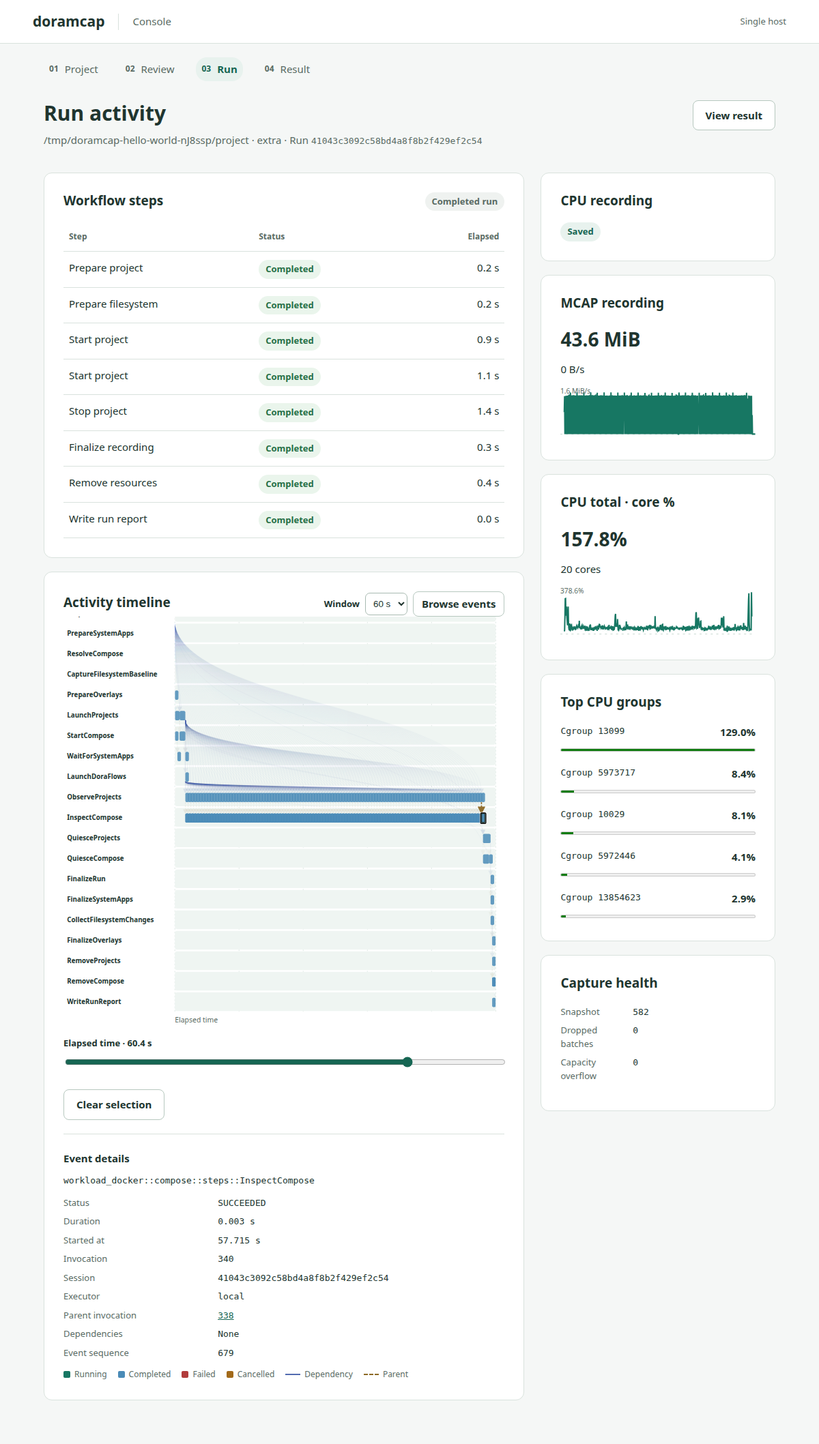
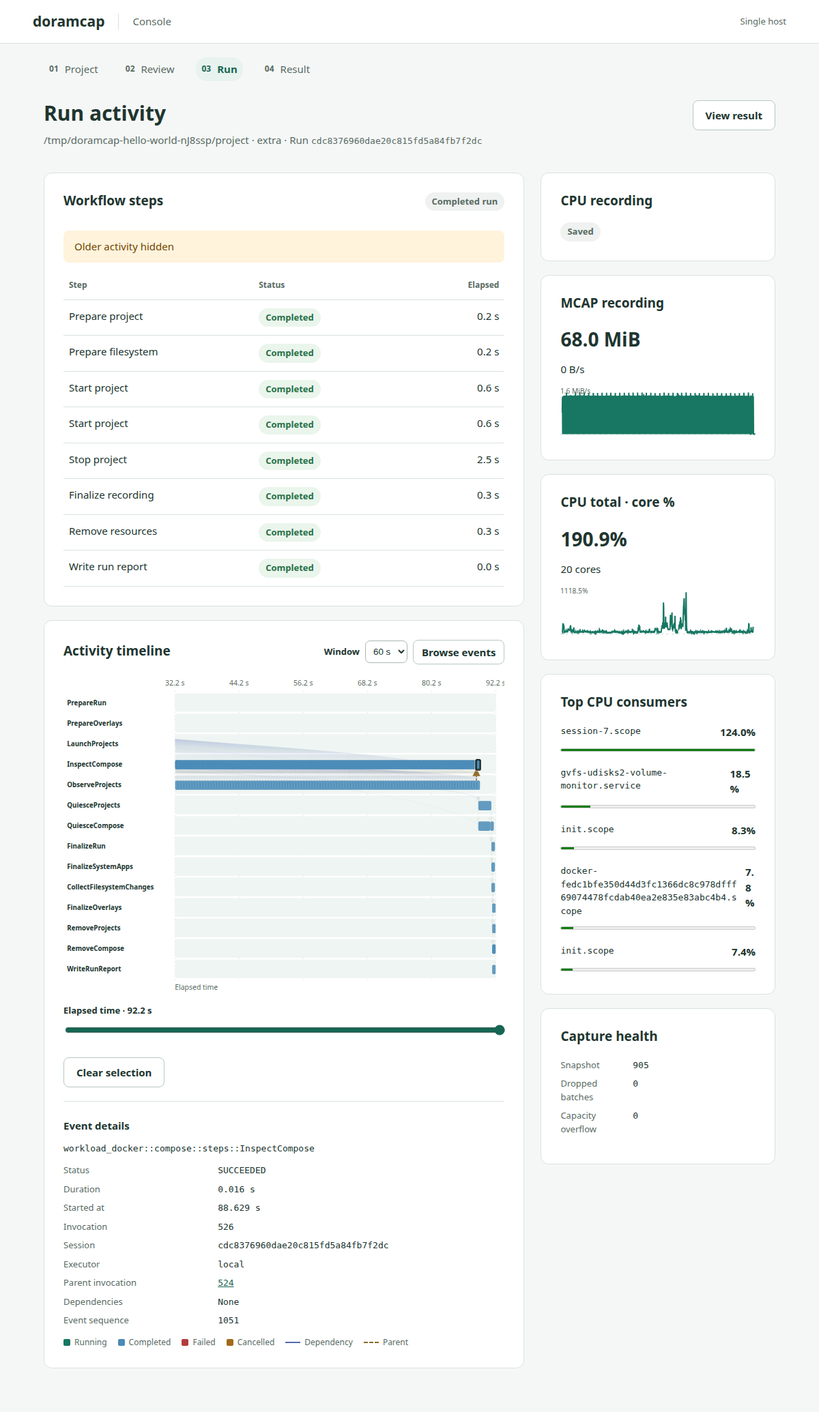
Display reported cgroup names in CPU consumer rankings

diff --git a/console/frontend/src/App.tsx b/console/frontend/src/App.tsx
@@ -103,7 +103,7 @@ export function App() {
     <div className="sr-only" aria-live="polite">{phase} {state === 'STOPPING' ? 'Stopping run' : ''}</div>
     {phase === 'Project' && <><div className="heading"><div><h1>Choose a project</h1></div></div><div className="columns"><section className="panel"><h2>Project directory</h2><p className="muted">Enter a directory beneath the approved project root.</p><label htmlFor="directory">Directory on this host</label><input id="directory" value={directory} onChange={event => changeDirectory(event.target.value)} placeholder="/projects/my-project" autoComplete="off"/>{available.length > 0 && <fieldset><legend>Optional profiles</legend>{available.map(profile => <label className="checkbox" key={profile}><input type="checkbox" checked={profiles.includes(profile)} onChange={() => toggleProfile(profile)}/>{profile}</label>)}</fieldset>}<div className="actions"><ActionButton disabled={!directory.trim() || busy} onClick={() => void prepare()}>{busy ? 'Checking…' : available.length ? 'Review project' : 'Continue'}</ActionButton></div></section><aside><section className="panel"><h2>Before you start</h2><p>Default Compose files and prebuilt local images required.</p></section></aside></div></>}
     {phase === 'Review' && review && <><div className="heading"><div><h1>Review project</h1></div><ActionButton onClick={() => void start()} disabled={busy || !review.preparedId}>Start run</ActionButton></div><div className="columns"><section className="panel"><div className="panel-heading"><h2>Application</h2><StatusLabel label={busy ? 'Checking…' : review.preparedId ? 'Ready to start' : 'Review required'} tone={review.preparedId && !busy ? 'success' : 'neutral'}/></div><p className="mono break">{directory}</p><h3>Enabled services</h3><table><thead><tr><th>Service</th><th>Local image</th></tr></thead><tbody>{review.services.map(service => <tr key={service.name}><td>{service.name}</td><td className="mono break">{service.imageId}</td></tr>)}</tbody></table>{review.warnings.map(warning => <p className="notice" key={warning}>{warning}</p>)}<div className="actions"><ActionButton variant="secondary" disabled={busy} onClick={() => { selecting.current = true; setPhase('Project'); }}>Change project</ActionButton>{!busy && !review.preparedId && <ActionButton variant="secondary" onClick={() => void prepare()}>Retry review</ActionButton>}</div></section><aside><SystemApps apps={review.systemApps} busy={busy} toggle={toggleSystemApp}/><section className="panel"><h2>Run settings</h2><p>Profiles</p><p>{profiles.length ? profiles.join(', ') : 'Default'}</p></section></aside></div></>}
-    {phase === 'Run' && <><div className="heading"><div><h1>{historical ? 'Run activity' : state === 'STOPPING' || stopPending ? 'Stopping run' : 'Run in progress'}</h1><p>{(snapshot?.projectDirectory || directory) && <>{snapshot?.projectDirectory || directory} · </>}{(snapshot?.profiles?.length ?? 0) > 0 && <>{snapshot?.profiles?.join(', ')} · </>}Run <span className="mono">{snapshot?.runId || expected.current}</span></p></div>{historical ? <ActionButton variant="secondary" onClick={() => navigateRun('Result')}>View result</ActionButton> : <ActionButton variant="stop" disabled={state === 'STOPPING' || stopPending} onClick={() => void stop()}>{state === 'STOPPING' || stopPending ? 'Stopping…' : 'Stop run'}</ActionButton>}</div><div className="columns"><div><RunActivity snapshot={snapshot} stopping={state === 'STOPPING' || stopPending} disconnected={disconnected} historical={historical}/></div><aside><section className="panel"><h2>CPU recording</h2><StatusLabel label={!recordingEnabled ? 'Disabled' : historical ? (snapshot?.cpuAvailable ? 'Saved' : 'Unavailable') : snapshot?.monitorReady ? 'In progress' : 'Waiting for readiness'} tone={recordingEnabled && snapshot?.monitorReady ? 'active' : 'neutral'}/></section>{recordingEnabled && <RunMetrics samples={snapshot?.metrics} cpuSnapshots={snapshot?.cpuSnapshots} historical={historical} disconnected={disconnected} incomplete={snapshot?.metricsIncomplete}/>}</aside></div></>}
+    {phase === 'Run' && <><div className="heading"><div><h1>{historical ? 'Run activity' : state === 'STOPPING' || stopPending ? 'Stopping run' : 'Run in progress'}</h1><p>{(snapshot?.projectDirectory || directory) && <>{snapshot?.projectDirectory || directory} · </>}{(snapshot?.profiles?.length ?? 0) > 0 && <>{snapshot?.profiles?.join(', ')} · </>}Run <span className="mono">{snapshot?.runId || expected.current}</span></p></div>{historical ? <ActionButton variant="secondary" onClick={() => navigateRun('Result')}>View result</ActionButton> : <ActionButton variant="stop" disabled={state === 'STOPPING' || stopPending} onClick={() => void stop()}>{state === 'STOPPING' || stopPending ? 'Stopping…' : 'Stop run'}</ActionButton>}</div><div className="columns"><div><RunActivity snapshot={snapshot} stopping={state === 'STOPPING' || stopPending} disconnected={disconnected} historical={historical}/></div><aside><section className="panel"><h2>CPU recording</h2><StatusLabel label={!recordingEnabled ? 'Disabled' : historical ? (snapshot?.cpuAvailable ? 'Saved' : 'Unavailable') : snapshot?.monitorReady ? 'In progress' : 'Waiting for readiness'} tone={recordingEnabled && snapshot?.monitorReady ? 'active' : 'neutral'}/></section>{recordingEnabled && <RunMetrics samples={snapshot?.metrics} cpuSnapshots={snapshot?.cpuSnapshots} cpuGroupNames={snapshot?.cpuGroupNames} historical={historical} disconnected={disconnected} incomplete={snapshot?.metricsIncomplete}/>}</aside></div></>}
     {phase === 'Result' && snapshot && <Result snapshot={snapshot} newRun={newRun} viewRun={() => navigateRun('Run')}/>}
   </PageFrame>;
 }

diff --git a/console/frontend/src/RunMetrics.tsx b/console/frontend/src/RunMetrics.tsx
@@ -23,11 +23,12 @@ function Sparkline({ samples, field, label }: { samples: RunMetric[]; field: 'cp
   }).join(' ');
   return <svg className="metric-chart" viewBox="0 0 280 80" role="img" aria-label={label}><line x1="0" x2="280" y1="70" y2="70" className="timeline-grid"/><path d={path} fill="none" stroke="#177763" strokeWidth="2"/><text x="0" y="12" className="metric-scale">{field === 'cpuPercent' ? `${max.toFixed(1)}%` : `${bytesLabel(max)}/s`}</text></svg>;
 }
-export function RunMetrics({ samples = [], cpuSnapshots = [], historical = false, disconnected = false, incomplete = false }: { samples?: RunMetric[]; cpuSnapshots?: Snapshot['cpuSnapshots']; historical?: boolean; disconnected?: boolean; incomplete?: boolean }) {
+export function RunMetrics({ samples = [], cpuSnapshots = [], cpuGroupNames = [], historical = false, disconnected = false, incomplete = false }: { samples?: RunMetric[]; cpuSnapshots?: Snapshot['cpuSnapshots']; cpuGroupNames?: Snapshot['cpuGroupNames']; historical?: boolean; disconnected?: boolean; incomplete?: boolean }) {
   const last = samples.at(-1);
   const cpu = [...samples].reverse().find(sample => sample.cpuPercent != null && (historical || BigInt(last?.elapsedNs ?? '0') - BigInt(sample.elapsedNs) <= 500000000n));
   const source = cpuSnapshots.at(-1);
   const groups = useMemo(() => topCpuGroups(cpuSnapshots), [cpuSnapshots]);
+  const names = useMemo(() => new Map(cpuGroupNames.map(group => [group.id, group.name])), [cpuGroupNames]);
   const peak = Math.max(100, ...groups.map(group => group.percent));
-  return <><section className="panel"><h2>MCAP recording</h2><p className="metric-value">{bytesLabel(last?.recordingBytes)}</p><p>{last?.writeBytesPerSecond != null ? `${bytesLabel(last.writeBytesPerSecond)}/s` : 'Unavailable'}</p><Sparkline samples={samples} field="writeBytesPerSecond" label="MCAP write rate"/></section><section className="panel"><h2>CPU total · core %</h2><p className="metric-value">{cpu?.cpuPercent != null ? `${cpu.cpuPercent.toFixed(1)}%` : 'Unavailable'}</p>{!!cpu?.cpuCores && <p>{cpu.cpuCores} cores</p>}{disconnected && !historical && <p className="notice">Connection lost</p>}<Sparkline samples={samples} field="cpuPercent" label="Total CPU utilization across cores"/></section><section className="panel"><h2>Top CPU groups</h2>{groups.length ? <ol className="cpu-ranking">{groups.map(group => <li key={group.id}><div><span className="mono">Cgroup {group.id}</span><strong>{group.percent.toFixed(1)}%</strong></div><meter min={0} max={peak} value={group.percent} aria-label={`Cgroup ${group.id} core utilization`}/></li>)}</ol> : <p className="muted">Unavailable</p>}</section><section className="panel"><h2>Capture health</h2><dl className="detail-grid"><dt>Snapshot</dt><dd>{source?.sequence?.toString() ?? 'Unavailable'}</dd><dt>Dropped batches</dt><dd>{source?.droppedBatches?.toString() ?? 'Unavailable'}</dd><dt>Capacity overflow</dt><dd>{source?.capacityOverflow?.toString() ?? 'Unavailable'}</dd></dl></section>{incomplete && <p className="notice">Metrics incomplete</p>}</>;
+  return <><section className="panel"><h2>MCAP recording</h2><p className="metric-value">{bytesLabel(last?.recordingBytes)}</p><p>{last?.writeBytesPerSecond != null ? `${bytesLabel(last.writeBytesPerSecond)}/s` : 'Unavailable'}</p><Sparkline samples={samples} field="writeBytesPerSecond" label="MCAP write rate"/></section><section className="panel"><h2>CPU total · core %</h2><p className="metric-value">{cpu?.cpuPercent != null ? `${cpu.cpuPercent.toFixed(1)}%` : 'Unavailable'}</p>{!!cpu?.cpuCores && <p>{cpu.cpuCores} cores</p>}{disconnected && !historical && <p className="notice">Connection lost</p>}<Sparkline samples={samples} field="cpuPercent" label="Total CPU utilization across cores"/></section><section className="panel"><h2>Top CPU consumers</h2>{groups.length ? <ol className="cpu-ranking">{groups.map(group => <li key={group.id}><div><span className="mono" title={`Cgroup ${group.id}`}>{names.get(group.id) || `Cgroup ${group.id}`}</span><strong>{group.percent.toFixed(1)}%</strong></div><meter min={0} max={peak} value={group.percent} aria-label={`${names.get(group.id) || `Cgroup ${group.id}`} core utilization`}/></li>)}</ol> : <p className="muted">Unavailable</p>}</section><section className="panel"><h2>Capture health</h2><dl className="detail-grid"><dt>Snapshot</dt><dd>{source?.sequence?.toString() ?? 'Unavailable'}</dd><dt>Dropped batches</dt><dd>{source?.droppedBatches?.toString() ?? 'Unavailable'}</dd><dt>Capacity overflow</dt><dd>{source?.capacityOverflow?.toString() ?? 'Unavailable'}</dd></dl></section>{incomplete && <p className="notice">Metrics incomplete</p>}</>;
 }

diff --git a/console/frontend/src/api.ts b/console/frontend/src/api.ts
@@ -6,7 +6,7 @@ export interface Review { preparedId: string; runId: string; availableProfiles: 
 export interface Step { session: string; executor: string; invocation: string; step: string; state: string; durationNs: string; elapsedNs?: string; parent?: string | null; dependencies?: string[]; sequence?: string; stepVersion?: number; error?: string | null }
 export interface Outcome { execution: string; writersStopped?: boolean | null; recordingFinalized?: boolean | null; boundaryClean?: boolean | null; eventStreamHealthy?: boolean | null }
 export interface RunMetric { elapsedNs: string; recordingBytes?: string | null; writeBytesPerSecond?: number | null; cpuPercent?: number | null; cpuCores: number }
-export interface Snapshot { phase: string; runId: string; steps: Step[]; sequence: string; lostEvents: string; truncatedSteps: string; overflowSteps: string; progressIncomplete: boolean; outcome: Outcome | null; cpuAvailable: boolean; reportAvailable: boolean; monitorReady: boolean; projectDirectory?: string; profiles?: string[]; metrics?: RunMetric[]; activityAvailable?: boolean; metricsIncomplete?: boolean; cpuSnapshots?: doramcap.telemetry.v1.ISnapshot[]; systemApps?: { ids: string[] } | null }
+export interface Snapshot { phase: string; runId: string; steps: Step[]; sequence: string; lostEvents: string; truncatedSteps: string; overflowSteps: string; progressIncomplete: boolean; outcome: Outcome | null; cpuAvailable: boolean; reportAvailable: boolean; monitorReady: boolean; projectDirectory?: string; profiles?: string[]; metrics?: RunMetric[]; activityAvailable?: boolean; metricsIncomplete?: boolean; cpuSnapshots?: doramcap.telemetry.v1.ISnapshot[]; cpuGroupNames?: { id: string; name: string }[]; systemApps?: { ids: string[] } | null }
 export class ApiError extends Error { constructor(public code: string) { super(code); } }
 async function request<T>(path: string, init?: RequestInit): Promise<T> {
   const response = await fetch(path, { ...init, headers: { ...(init?.body ? { 'content-type': 'application/json' } : {}), ...init?.headers }, credentials: 'same-origin' });

diff --git a/console/frontend/src/panels.test.tsx b/console/frontend/src/panels.test.tsx
@@ -8,6 +8,7 @@ import { RunMetrics } from './RunMetrics';
 import { Result } from './Result';
 import { SystemApps } from './SystemApps';
 import { cpuRecordingEnabled } from './api';
+import { doramcap } from './generated/console';
 import { PageFrame } from './ui/PageFrame';
 import type { Snapshot, Step } from './api';
 
@@ -59,7 +60,7 @@ test('historical run freezes elapsed time and unavailable metrics remain distinc
   assert.match(zero, /0 B/);
   assert.match(zero, /0.0%/);
   assert.match(zero, /8 cores/);
-  assert.match(zero, /Top CPU groups/);
+  assert.match(zero, /Top CPU consumers/);
   assert.match(zero, /Capture health/);
   assert.doesNotMatch(zero, /Inclusive ancestors|recorder boundary/);
 });
@@ -95,4 +96,16 @@ test('system app choices reflect selection and disabled recording stays distinct
   assert.equal(cpuRecordingEnabled(snapshot), false);
   assert.equal(cpuRecordingEnabled({ systemApps: { ids: ['cpu-monitor'] } }), true);
   assert.equal(cpuRecordingEnabled({}), true);
+});
+
+test('CPU consumers show reported cgroup names with an ID tooltip and numeric fallback', () => {
+  // Arrange
+  const cpuSnapshots = [1,2].map(sequence=>doramcap.telemetry.v1.Snapshot.fromObject({sequence,monotonicEndNs:sequence*100000000,records:[{cgroupId:'9007199254740993',parentId:0,cpu:0,flags:1,runtimeNs:sequence*10000000}]}));
+  // Act
+  const named = renderToStaticMarkup(<RunMetrics cpuSnapshots={cpuSnapshots} cpuGroupNames={[{id:'9007199254740993',name:'worker.service'}]}/>);
+  const missing = renderToStaticMarkup(<RunMetrics cpuSnapshots={cpuSnapshots}/>);
+  // Assert
+  assert.match(named, /title="Cgroup 9007199254740993">worker.service/);
+  assert.match(named, /worker.service core utilization/);
+  assert.match(missing, />Cgroup 9007199254740993<\/span>/);
 });

diff --git a/console/frontend/src/live.test.ts b/console/frontend/src/live.test.ts
@@ -46,3 +46,15 @@ test('CPU rankings use existing counters with exact deltas, and suppress reset o
   assert.deepEqual(topCpuGroups([source(1,5n),source(2,0n)]),[]);
   assert.deepEqual(topCpuGroups([]),[]);
 });
+
+test('cgroup names keep exact IDs across heartbeats and reset with a fresh CPU frame', () => {
+  // Arrange
+  const id = '9007199254740993';
+  const first = snapshot({cpuSnapshots:[{sequence:'1'}],cpuGroupNames:[{id,name:'worker.service'}]});
+  // Act
+  const heartbeat = mergeLive(first,snapshot({}));
+  const changed = mergeLive(heartbeat,snapshot({cpuSnapshots:[{sequence:'2'}],cpuGroupNames:[]}));
+  // Assert
+  assert.deepEqual(heartbeat.cpuGroupNames,[{id,name:'worker.service'}]);
+  assert.deepEqual(changed.cpuGroupNames,[]);
+});

diff --git a/console/frontend/src/live.ts b/console/frontend/src/live.ts
@@ -46,7 +46,7 @@ export function mergeLive(previous: Snapshot | null, next: Snapshot): Snapshot {
     for (const metric of next.metrics) metrics.set(metric.elapsedNs, metric);
     history = [...metrics.values()].slice(-1200);
   }
-  return { ...next, steps, metrics: history, cpuSnapshots: next.cpuSnapshots?.length ? next.cpuSnapshots : previous.cpuSnapshots };
+  return { ...next, steps, metrics: history, cpuSnapshots: next.cpuSnapshots?.length ? next.cpuSnapshots : previous.cpuSnapshots, cpuGroupNames: next.cpuSnapshots?.length ? next.cpuGroupNames : previous.cpuGroupNames };
 }
 
 export async function readLive(consume: (status: Snapshot) => void, signal: AbortSignal) {

diff --git a/console/server/native/src/metrics.rs b/console/server/native/src/metrics.rs
@@ -29,6 +29,7 @@ struct Reader {
     size: Option<(u64, Instant)>,
     incomplete: bool,
     latest: Vec<telemetry_protocol::pb::Snapshot>,
+    names: Vec<crate::protocol::CpuGroupName>,
 }
 impl Reader {
     fn sample(&mut self, directory: &Path, elapsed: Duration) -> RunMetric {
@@ -73,6 +74,7 @@ impl Reader {
             self.offset = 0;
             self.previous = None;
             self.latest.clear();
+            self.names.clear();
             self.incomplete = true;
         }
         self.identity = Some(identity);
@@ -121,6 +123,31 @@ impl Reader {
                 }
                 self.latest.push(snapshot);
             }
+            let parents: BTreeSet<_> = frame
+                .snapshot
+                .records
+                .iter()
+                .map(|row| row.parent_id)
+                .collect();
+            let leaves: BTreeSet<_> = frame
+                .snapshot
+                .records
+                .iter()
+                .map(|row| row.cgroup_id)
+                .filter(|id| !parents.contains(id))
+                .collect();
+            self.names = frame
+                .dictionary
+                .iter()
+                .filter(|entry| leaves.contains(&entry.id))
+                .filter_map(|entry| {
+                    Some(crate::protocol::CpuGroupName {
+                        id: entry.id,
+                        name: public_cgroup_name(entry.path.as_deref()?)?,
+                    })
+                })
+                .take(512)
+                .collect();
             let snapshot = &frame.snapshot;
             sample.cpu_cores = snapshot
                 .records
@@ -200,6 +227,18 @@ impl Reader {
     }
 }
 
+fn public_cgroup_name(path: &str) -> Option<String> {
+    if path.is_empty() {
+        return None;
+    }
+    let leaf = path
+        .rsplit('/')
+        .find(|part| !part.is_empty())
+        .unwrap_or("/");
+    let name: String = leaf.chars().filter(|c| !c.is_control()).take(128).collect();
+    (!name.is_empty() && name != "." && name != "..").then_some(name)
+}
+
 fn terminal(phase: Phase) -> bool {
     matches!(phase, Phase::Finished | Phase::Blocked | Phase::Idle)
 }
@@ -246,6 +285,7 @@ pub(crate) fn watch(
                 }
                 current.metrics.push(sample);
                 current.cpu_snapshots = reader.latest.clone();
+                current.cpu_group_names = reader.names.clone();
                 if current
                     .cpu_snapshots
                     .iter()
@@ -331,10 +371,24 @@ pub(crate) fn restore(session: &mut Session, data_root: &Path) {
         && status.steps.len() <= 512
         && status.metrics.len() <= HISTORY
         && status.cpu_snapshots.len() <= 2
+        && status.cpu_group_names.len() <= 512
     {
         session.progress.restore(&status);
         session.metrics = status.metrics;
         session.cpu_snapshots = status.cpu_snapshots;
+        session.cpu_group_names = status.cpu_group_names;
+        // Older checkpoints omitted names; read the matching final producer dictionary.
+        if session.cpu_group_names.is_empty() && !session.cpu_snapshots.is_empty() {
+            let mut reader = Reader::default();
+            if let Ok(root) =
+                workload_docker::evidence::root(&data_root.join("runs").join(&marker.run_id))
+                && reader.cpu(&root, &mut RunMetric::default()).is_ok()
+                && reader.latest.last().map(|s| s.sequence)
+                    == session.cpu_snapshots.last().map(|s| s.sequence)
+            {
+                session.cpu_group_names = reader.names;
+            }
+        }
         session.metrics_incomplete = status.metrics_incomplete;
         session
             .loss
@@ -371,6 +425,12 @@ mod tests {
             body: Some(pb::packet::Body::Snapshot(pb::SnapshotFrame {
                 version: 2,
                 session_id: "capture".into(),
+                dictionary_full: true,
+                dictionary: vec![pb::DictionaryEntry {
+                    id: 11,
+                    parent_id: 10,
+                    path: Some("/private/ancestor/worker.service".into()),
+                }],
                 snapshot: Some(pb::Snapshot {
                     schema_version: 1,
                     sequence,
@@ -393,6 +453,61 @@ mod tests {
         file.write_all(bytes).unwrap();
     }
     #[test]
+    fn names_are_bounded_leaf_names_and_legacy_checkpoints_can_restore_them() {
+        // Arrange
+        let root = tempfile::tempdir().unwrap();
+        let id = "a".repeat(32);
+        let directory = root.path().join("runs").join(&id);
+        std::fs::create_dir_all(&directory).unwrap();
+        let stream = directory.join("cpu.pb");
+        append(&stream, &frame(0, 100));
+        append(&stream, &frame(1, 200));
+        let mut reader = Reader::default();
+        reader.sample(&directory, Duration::ZERO);
+        let status = Status {
+            phase: Phase::Finished as i32,
+            run_id: id.clone(),
+            cpu_snapshots: reader.latest,
+            ..Default::default()
+        };
+        save(&directory, &status).unwrap();
+        let mut session = Session::new(
+            Phase::Finished,
+            Some(Marker {
+                run_id: id,
+                ..Default::default()
+            }),
+        );
+        // Act
+        restore(&mut session, root.path());
+        // Assert
+        assert_eq!(session.cpu_group_names[0].name, "worker.service");
+        assert_eq!(
+            public_cgroup_name("/private/parent/worker.service\n").as_deref(),
+            Some("worker.service")
+        );
+        assert_eq!(public_cgroup_name("/").as_deref(), Some("/"));
+        assert!(public_cgroup_name("").is_none());
+        assert_eq!(
+            public_cgroup_name(&"é".repeat(200))
+                .unwrap()
+                .chars()
+                .count(),
+            128
+        );
+        let encoded = Status {
+            cpu_group_names: session.cpu_group_names,
+            ..Default::default()
+        }
+        .encode_to_vec();
+        assert!(
+            !encoded
+                .windows(b"private".len())
+                .any(|bytes| bytes == b"private")
+        );
+    }
+
+    #[test]
     fn totals_exclude_inclusive_descendants_and_virtual_kernel_preserving_u64_deltas() {
         // Arrange
         let root = tempfile::tempdir().unwrap();
@@ -407,6 +522,8 @@ mod tests {
         // Assert
         assert_eq!(first.cpu_percent, Some(20.0));
         assert_eq!(first.cpu_cores, 2);
+        assert_eq!(reader.names[0].id, 11);
+        assert_eq!(reader.names[0].name, "worker.service");
         assert_eq!(first.recording_bytes, Some(100));
         assert!(first.write_bytes_per_second.is_none());
         // Act: a partial writer frame must wait without corrupting the cursor.

diff --git a/console/server/native/src/session.rs b/console/server/native/src/session.rs
@@ -31,6 +31,7 @@ pub(crate) struct Session {
     pub metrics: Vec<crate::protocol::RunMetric>,
     pub metrics_incomplete: bool,
     pub cpu_snapshots: Vec<telemetry_protocol::pb::Snapshot>,
+    pub cpu_group_names: Vec<crate::protocol::CpuGroupName>,
     pub observer: Option<orchestrator::telemetry::TelemetryObserver>,
     pub lost_events: u64,
     pub monitor_ready: bool,
@@ -58,6 +59,7 @@ impl Session {
             metrics: Vec::new(),
             metrics_incomplete: false,
             cpu_snapshots: Vec::new(),
+            cpu_group_names: Vec::new(),
             observer: None,
             lost_events: 0,
             monitor_ready: false,
@@ -102,6 +104,7 @@ impl Session {
                 || self.loss.load(Ordering::Relaxed) != 0,
             metrics: self.metrics.clone(),
             cpu_snapshots: self.cpu_snapshots.clone(),
+            cpu_group_names: self.cpu_group_names.clone(),
             metrics_incomplete: self.metrics_incomplete,
             activity_available: !self.progress.rows().is_empty(),
             monitor_ready: self.monitor_ready,
@@ -249,6 +252,7 @@ pub(crate) fn start(
     session.progress = Progress::default();
     session.metrics.clear();
     session.cpu_snapshots.clear();
+    session.cpu_group_names.clear();
     session.metrics_incomplete = false;
     session.lost_events = 0;
     session.loss.store(0, Ordering::Relaxed);

diff --git a/console/server/native/src/lib.rs b/console/server/native/src/lib.rs
@@ -570,6 +570,7 @@ fn stream_update(
             .retain(|metric| metric.elapsed_ns > cursor.metric_elapsed_ns);
         if cursor.cpu_sequence == next.cpu_sequence {
             status.cpu_snapshots.clear();
+            status.cpu_group_names.clear();
         }
     }
     (status, next)
@@ -584,6 +585,10 @@ mod stream_tests {
         let id = (1_u64 << 53) + 1;
         let status = protocol::Status {
             run_id: "run".into(),
+            cpu_group_names: vec![protocol::CpuGroupName {
+                id,
+                name: "worker.service".into(),
+            }],
             sequence: id,
             steps: vec![workflow_protocol::Event {
                 sequence: id,
@@ -616,6 +621,7 @@ mod stream_tests {
             heartbeat.steps.is_empty()
                 && heartbeat.metrics.is_empty()
                 && heartbeat.cpu_snapshots.is_empty()
+                && heartbeat.cpu_group_names.is_empty()
         );
         // Act
         let mut changed = status;
@@ -638,6 +644,7 @@ mod stream_tests {
         assert_eq!(delta.steps[0].invocation, id + 1);
         assert_eq!(delta.metrics.len(), 1);
         assert_eq!(delta.cpu_snapshots.len(), 1);
+        assert_eq!(delta.cpu_group_names[0].id, id);
         assert_eq!(next_run.steps.len(), 2);
     }
 }

diff --git a/console/docs/102926-console-mvp.md b/console/docs/102926-console-mvp.md
@@ -749,3 +749,44 @@ capability/CUDA/high-memlock skips remain skipped. Second-machine browser
 acceptance remains skipped. Logs: `/tmp/console-apps-*.log`.
 
 - [x] Record final-source local CI and ARM64 results.
+
+## M13 — Named CPU consumers
+
+**Work items**
+
+- [x] Display actual cgroup names from the producer's existing dictionary in
+  Top CPU consumers. Keep exact numeric IDs in tooltips and as missing-name
+  fallback. Task names are not present in the current producer protocol.
+- [x] Add a public display-name projection (up to 512 names, 128 characters each),
+  using the final cgroup path component. Keep ancestor host paths private.
+  Send names with CPU frames, retain them across heartbeats and checkpoint them.
+- [x] Resolve names for older completed checkpoints from a matching final
+  `cpu.pb` dictionary. Bound reads and require matching snapshot sequence;
+  unavailable/mismatched dictionaries keep the numeric fallback.
+
+**Validation**
+
+23 frontend tests/build, 17 native unit tests, six project/state integration
+checks and eight server tests/build passed. Focused tests cover exact IDs above
+2^53, heartbeat retention, fresh-frame reset, named/numeric rendering, private
+ancestor exclusion, length limits and legacy checkpoint backfill. An initial
+TypeScript fixture used string IDs directly in generated Long fields; converting
+through the generated protobuf factory corrected the build before validation.
+
+After the user's active run finished, the packaged app restarted and restored
+151 cgroup names for run `cdc8376960dae20c815fd5a84fb7f2dc`. Chromium displayed
+actual names (including `session-7.scope` and
+`gvfs-udisks2-volume-monitor.service`), event inspection still worked, and the
+390 px page remained 390 px wide. Updated completed-activity screenshots show
+this real recorded run. No new Docker execution was needed for this label change.
+
+- [x] Verify names, privacy bounds, exact identity and completed-run restoration.
+Full local CI passed on the final application source: both Clippy/workspace
+configurations, storage without default features, examples/binaries, formatting,
+boundaries and snapshot synchronization (CI profile, locked dependencies,
+unprivileged builds). ARM64 job 520 passed. The eleven ignored native Docker/
+capability cases were not rerun for this display change; prior M12 execution
+evidence remains above. Existing workspace capability/CUDA/high-memlock and
+second-machine browser skips remain unchanged. Logs: `/tmp/console-names-*.log`.
+
+- [x] Record final-source local CI and ARM64 results.
